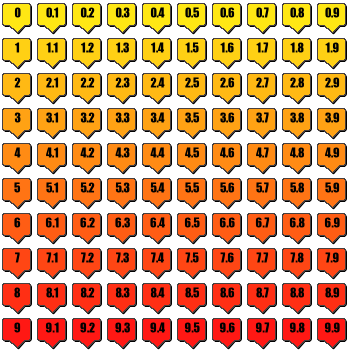
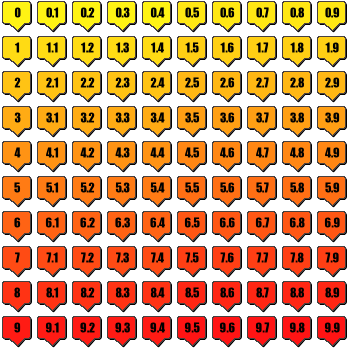
Changed 'quaketracker.feeds' object to be more informational. Building menu from feeds list. Updated markers.png

diff --git a/src/js/quaketracker.js b/src/js/quaketracker.js
@@ -17,10 +17,39 @@ QuakeTracker = function(googleMap) {
 	this.map = googleMap;
 	this.infowindow = null;
 	this.markers = [];
-	this.feeds = {
-		'quakes7day25' : "http://www.earthquake.usgs.gov/eqcenter/catalogs/7day-M2.5.xml",
-		'quakes24hour25' : "http://www.earthquake.usgs.gov/eqcenter/catalogs/1day-M2.5.xml",
-		'quakes7day5' : "http://www.earthquake.usgs.gov/eqcenter/catalogs/7day-M5.xml"
+	this.feeds = {	
+		'quakes-1hr-M00' : {
+			description: 'M 0+ earthquakes (Past hour)',
+			atom: 'http://earthquake.usgs.gov/earthquakes/catalogs/1hour-M0.xml'
+		},
+		'quakes-1hr-M10' : {
+			description: 'M 1+ earthquakes (Past hour)',
+			atom: 'http://earthquake.usgs.gov/earthquakes/catalogs/1hour-M1.xml'
+		},
+		'quakes-1dy-M00' : {
+			description: 'M 0+ earthquakes (Past day)', 
+			atom: 'http://earthquake.usgs.gov/earthquakes/catalogs/1day-M0.xml'
+		},
+		'quakes-1dy-M10' : {
+			description: 'M 1+ earthquakes (Past day)',
+			atom: 'http://earthquake.usgs.gov/earthquakes/catalogs/1day-M1.xml'
+		},
+		'quakes-1dy-M25' : {
+			description: 'M 2.5+ earthquakes (Past day)', 
+			atom: 'http://earthquake.usgs.gov/earthquakes/catalogs/1day-M2.5.xml'
+		},
+		'quakes-1wk-M25' : {
+			description: 'M 2.5+ earthquakes (Past week)', 
+			atom: 'http://earthquake.usgs.gov/earthquakes/catalogs/7day-M2.5.xml'
+		},
+		'quakes-1wk-M50' : {
+			description: 'M 5+ earthquakes (Past week)', 
+			atom: 'http://earthquake.usgs.gov/earthquakes/catalogs/7day-M5.xml'
+		},
+		'quakes-1wk-M70' : {
+			description: 'M 7+ earthquakes (Past week)', 
+			atom: 'http://earthquake.usgs.gov/earthquakes/catalogs/7day-M7.xml'
+		}
 	};
 	this.quakes = {};
 };
@@ -40,15 +69,15 @@ QuakeTracker.prototype.loadQuakes = function(feed) {
 	},
 	success: function(xml){
 			/* TODO: do we need to bind this to elements now or can we cache?  Users won't even see 90% of these */
-						
+												
 			$(xml).find('entry').each(function(){
 				/* Retrieve all needed values from XML */
 				var entry = $(this);
 				var title = entry.find('title').text();							
 				var summary = entry.find('summary').text();
-				var htmlString = "<div class=\"infowindow\"><b>" + title + "</b>" + "<p>" + summary + "<br></div>";
-			
-				var coord = entry.find('point').eq(0).text().split(' ');	
+				var coordText = entry.find('point').eq(0).text();
+				var coord = coordText.split(' ');	
+				var age = entry.find('category[label="Age"]').attr('term');
 				var myLatlng = new google.maps.LatLng(parseFloat(coord[0]), parseFloat(coord[1]));
 				var marker = new google.maps.Marker({
 					 position: myLatlng,
@@ -62,6 +91,11 @@ QuakeTracker.prototype.loadQuakes = function(feed) {
 				  new google.maps.Point(0, 13));
 				  
 				marker.setIcon(icon);
+				
+				var htmlString = "<div class=\"infowindow\"><b>" + title + " (" + age + ")</b>" +
+								 "<p>" + summary + "</p>" + 
+								 "<div class=\"coords\">Lat/Long: [" + coordText + "]</div>" + 
+								 "</div>";
 				self.addMarker(marker, htmlString);			
 			});/*  end each */
 			$('#output').text("Showing " + self.markers.length + " earthquakes");

diff --git a/src/js/main.js b/src/js/main.js
@@ -13,6 +13,9 @@ $(document).ready(function(){
 		btn = $('#button'),
 		close = $('#close'),
 		usgs = $('#usgs-feeds'),	
+		getFeed = function(elem) {
+			return quaketracker.feeds[elem.id]['atom'];
+		},
 		latlng = new google.maps.LatLng(35.6802, -121.1165),	
 		myOptions = {
 			zoom: 3,
@@ -32,9 +35,16 @@ $(document).ready(function(){
 	quaketracker = new QuakeTracker(googleMap);
   
   	/* setup selection list */
+	$.each(quaketracker.feeds, function(id, quake){ 
+		var item = $('<li></li>');
+		item.attr('id', id);
+		item.text(quake.description);
+		usgs.append(item);
+	});
+	
 	$('#usgs-feeds li').click(function(){
 		$('#usgs-feeds li').removeClass('selected');
-		 try{ quaketracker.loadQuakes(quaketracker.feeds[this.id]); }
+		 try{ quaketracker.loadQuakes(getFeed(this)); }
 		 catch(err){
 		 	alert('could not load selected feed');
 			/* console.error(err.message); // works in firebug,chrome */
@@ -45,7 +55,6 @@ $(document).ready(function(){
 	close.click(function(){	menu.hide(); btn.show(); });
 	btn.click(function(){ btn.hide(); menu.show(); });
 		
-	var selected = $('#usgs-feeds li.selected').get(0);
-	quaketracker.loadQuakes(quaketracker.feeds[selected.id]);
+	$('#usgs-feeds li:eq(0)').trigger('click');
 });
 	

diff --git a/src/index.html b/src/index.html
@@ -29,12 +29,6 @@
         Data provided by <a href="http://www.earthquake.usgs.gov/eqcenter/catalogs/" target="_blank">U.S. Geological Survey</a>
       </div>Showing:
       <ul id="usgs-feeds">
-        <li id="quakes24hour25" class="selected">M 2.5+ earthquakes, past day
-        </li>
-        <li id="quakes7day25">M 2.5+ earthquakes, past 7 days
-        </li>
-        <li id="quakes7day5">M 5+ earthquakes, past 7 days
-        </li>
       </ul>
       <div id="output"></div>
       <div id="checkout"><a href="http://github.com/jimschubert/quaketracker" target="_blank">Source available here</a></div>

diff --git a/markers/markers.js b/markers/markers.js
@@ -32,10 +32,10 @@ fs.readFile(baseImage, function(err,data) {
 	for(var magnitude = 0; magnitude <= 100; magnitude++) {
 		var y = 35 * Math.floor(magnitude/10),
 			x = ( 35*(magnitude % 10) );
-		if(magnitude % 10 == 0){
-			color[1] = color[1] - 25;
+		if(magnitude % 5 == 0){
+			color[1] = color[1] - 13;
 		}
-		
+				
 		ctx.drawImage(img, x, y, 35,35);
 		
 		var imgData = ctx.getImageData(x, y, 35, 35);

diff --git a/src/css/style.css b/src/css/style.css
@@ -81,7 +81,7 @@ margin-top:8px;
 margin-left:35px;
 padding:8px;
 width:275px;
-height:130px;
+height:auto;
 position:absolute;
 border:1px solid black;
 z-index:999;
